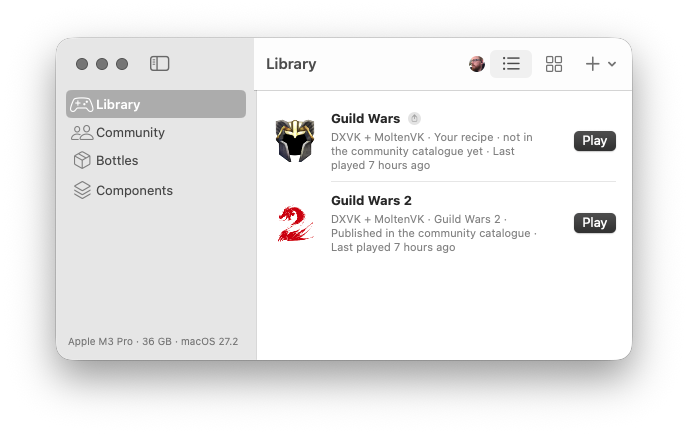
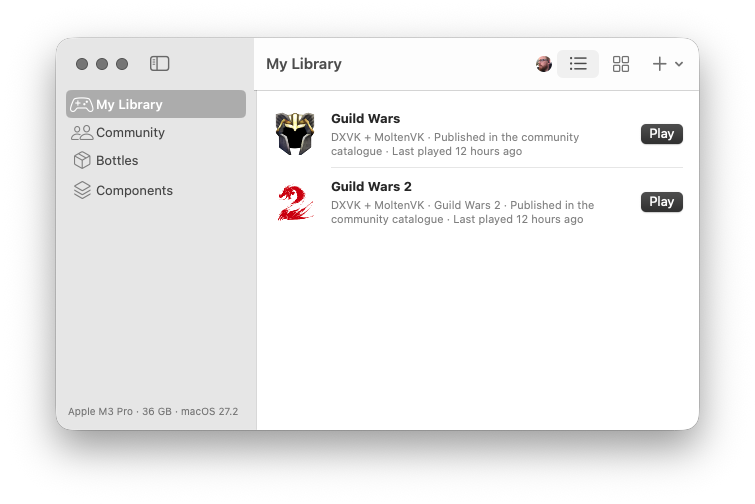
Website: the app screenshot shows My Library
The hero image is a new capture of the app (My Library, the GitHub
avatar in the toolbar), 755 x 504; the page's size and aspect ratio
follow it.

Changed region(s): [[0.061, 0.0599, 0.9462, 0.8687], [0.3358, 0.1198, 0.4578, 0.1797], [0.0916, 0.4194, 0.2442, 0.4493]]

diff --git a/site/assets/site.css b/site/assets/site.css
@@ -129,8 +129,8 @@ pre code { background: none; padding: 0; }
 /* The app's window, captured with its own shadow on a transparent background. */
 /* The figure is the grid item, not the image: some browsers (Safari) stretch an image that
    is itself a grid item without scaling its height. The image keeps its own proportions. */
-.hero-shot { justify-self: center; width: 100%; max-width: 688px; min-width: 0; margin: 0; }
-.hero-shot img { width: 100%; height: auto; aspect-ratio: 688 / 434; object-fit: contain; }
+.hero-shot { justify-self: center; width: 100%; max-width: 755px; min-width: 0; margin: 0; }
+.hero-shot img { width: 100%; height: auto; aspect-ratio: 755 / 504; object-fit: contain; }
 @media (max-width: 760px) { .hero .wrap { grid-template-columns: minmax(0, 1fr); } .hero-shot { max-width: 520px; } }
 .section { padding: 40px 0; }
 .section h2 { font-size: 1.7rem; margin: 0 0 8px; }

diff --git a/site/index.html b/site/index.html
@@ -38,7 +38,7 @@
           </div>
         </div>
         <figure class="hero-shot">
-          <img src="assets/app-library.png" alt="The Distiller app's library window, with Guild Wars and Guild Wars 2 ready to play" width="688" height="434">
+          <img src="assets/app-library.png" alt="The Distiller app's My Library window, with Guild Wars and Guild Wars 2 ready to play" width="755" height="504">
         </figure>
       </div>
     </section>
